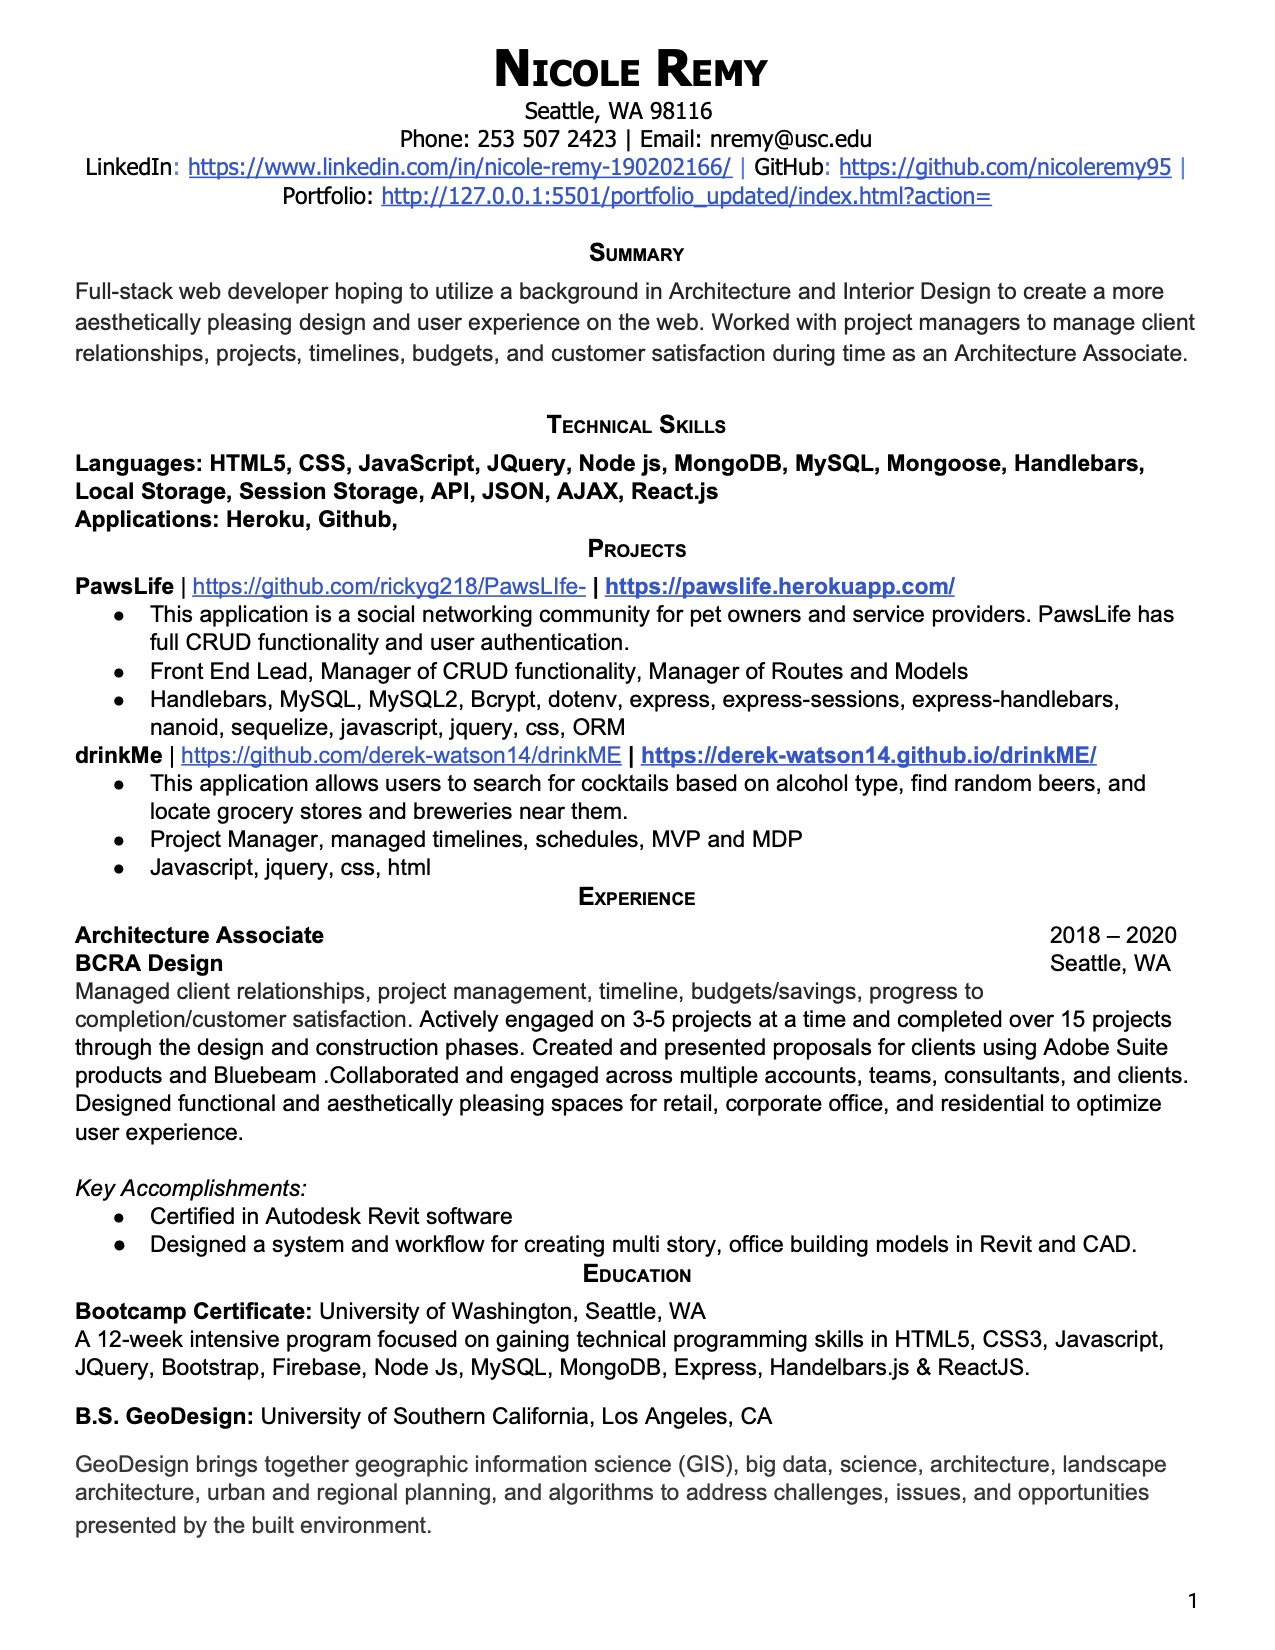
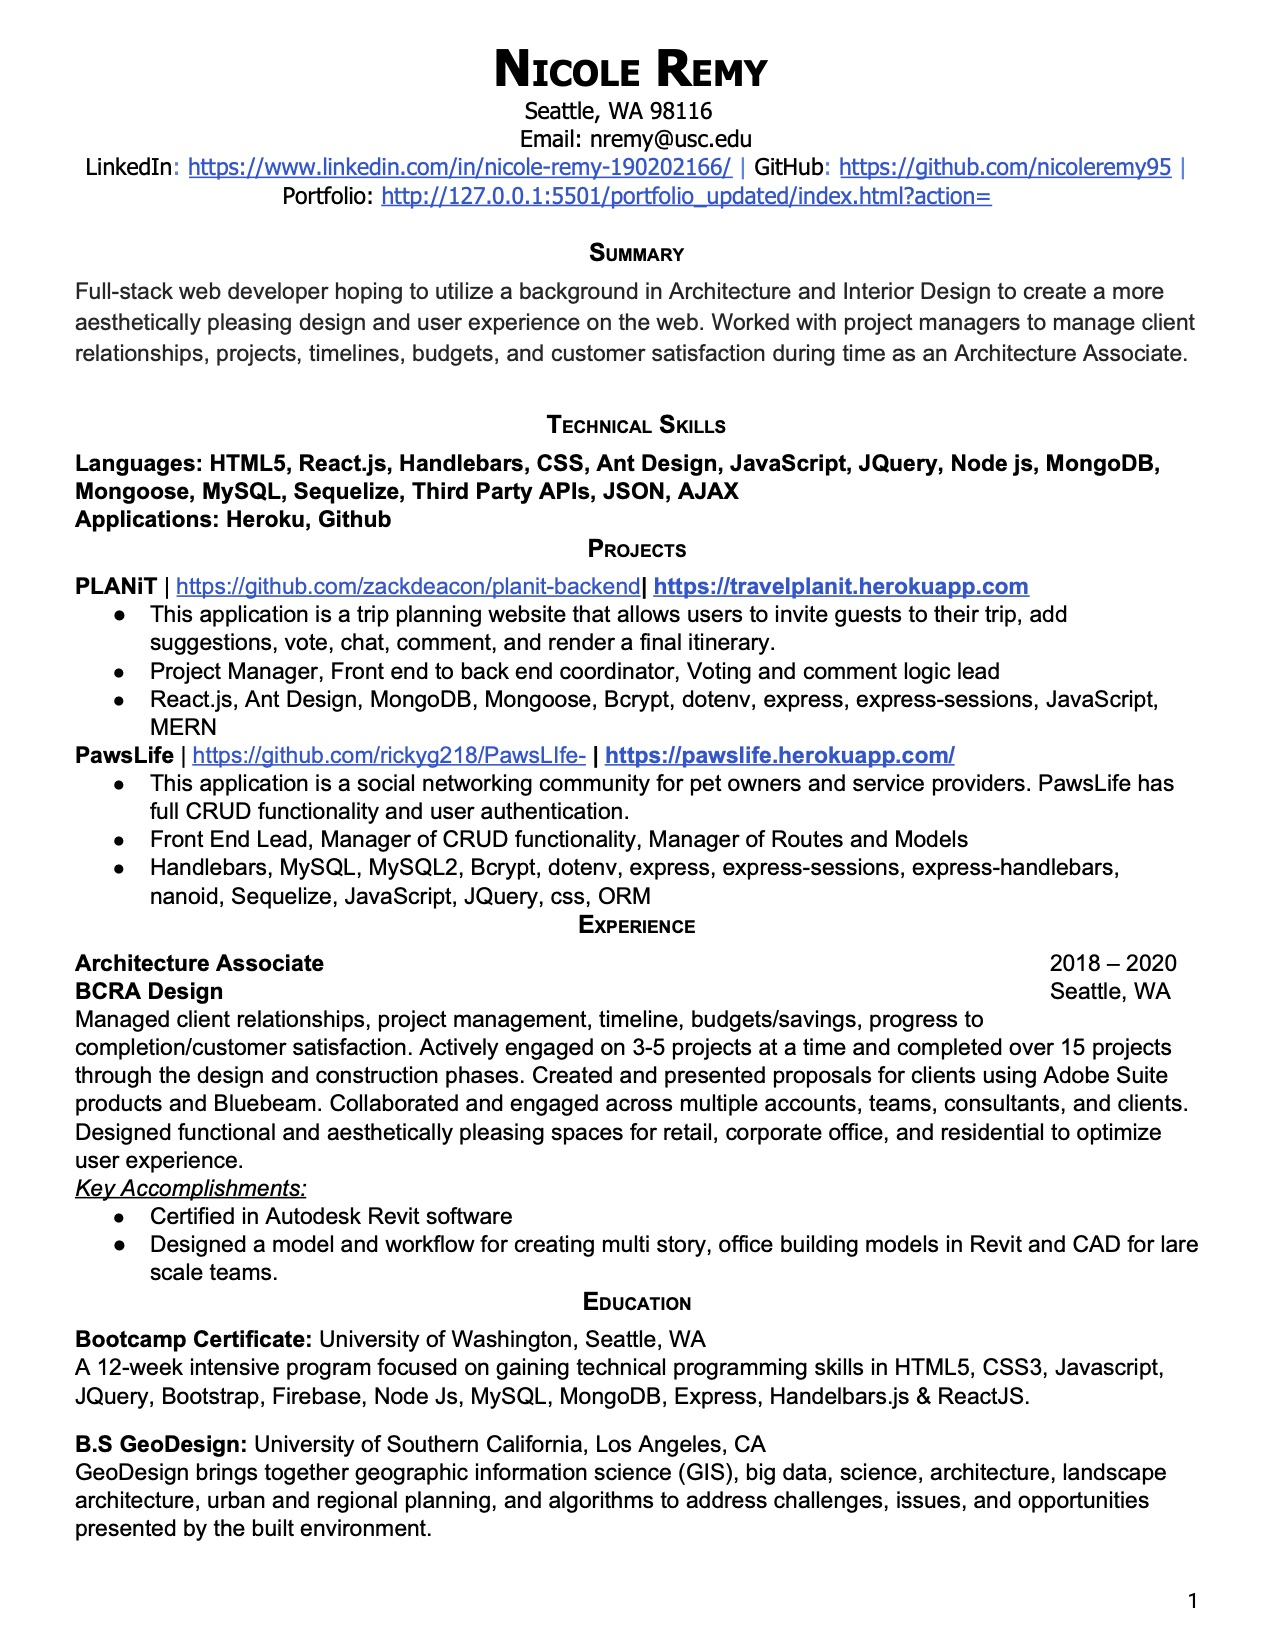
changed out resume to more current edition, added technology to portfolio, removed modal

diff --git a/src/components/portfolio/portfolio.js b/src/components/portfolio/portfolio.js
@@ -20,11 +20,10 @@ const { Meta } = Card;
 
 export default function Portfolio() {
     const portfolioArr= [
-    
-    
      {
         name: "PLANiT",
         img: planitImg,
+        tech: "React, Ant Design, MongoDB, Mongoose",
         type: "Group Project",
         role: "Project Manager",
         description: "PLANiT is a collaborative travel planning app for groups looking to make the most of their next adventure.",
@@ -36,71 +35,58 @@ export default function Portfolio() {
       {
         name: "PawsLife",
         img: pawsLifeImg,
+        tech: "HTML, Materialize, MySQL, Sequelize",
         type: "Group Project",
         role: "Routes, Front End Design, CRUD Functionality",
         description: "This application is a social community website of pet owners and pet service providers.",
         info: "This application is a social community website of pet owners and pet service providers. Pawslife gives the user the ability to create an account as a pet owner of a dog or cat, and or a pet provider for dogs or cats. As an owner, a user can keep track of all of their pets for which they can book provider services. As a provider, a user can post pet care services for other members of pawslife to book. This application has full CRUD for user accounts and CRD for pets and posts.",
         github: "https://github.com/rickyg218/PawsLIfe-",
         app: "https://pawslife.herokuapp.com/"
-    },
-    {
-      name: "drinkMe",
-      img: drinkMeImg,
-      type: "Group Project",
-      role: "Project Manager",
-      description: "Find cocktail recipes, nearby grocery stores for ingredients, and local breweries near you!",
-      info: "Don’t feel like going out to a bar or restaurant with your friends to grab a drink? Go ahead and invite them over! No stress if you don’t know what drink to make or how to make it, drinkME allows you to find the drink that fits the mood by giving you the ability to generate recipes on the fly. If you're not in the mood for cocktails, we can also help you find the perfect beer and local brewery so you can be on your way to a night full of memories! This application uses four APIs; Google , Punk, Open Brewery, and CocktailDB. For style, we used Materialize.",
-      github: "https://github.com/derek-watson14/drinkME",
-      app: "https://derek-watson14.github.io/drinkME/"
-    },
-    {
-      name: "Budget Tracker",
-      img: budgetTrackerImg,
-      type: "homework",
-      description: "This application is a budget application that allows the user to update their budget offline and online",
-      info: "This application is a budget application that allows the user to update their budget offline and online. The user has the ability to add deposits and add expenses both online and offline. This ability is from the manifest.webmanifest.json and the service worker file. This application is deployed to Heroku. If you go to the deployed site, you can click the app install to install the application to your computer.",
-      github: "https://github.com/nicoleremy95/budget-tracker",
-      app: "https://ner-budget-tracker.herokuapp.com/"
-    },
-    {
-      name: "Employee Directory",
-      img: employeeDirectoryImg,
-      type: "homework",
-      description: "This application is an employee directory made with React accessing a public random user directory api",
-      info: "This application is an employee directory made with React accessing a public random user directory api.The user can sort and filter through the employees. This application is deployed to Heroku. If you go to the deployed site, you can click the app install to install the application to your computer.",
-      github: "https://github.com/nicoleremy95/employeedirectory",
-      app: "https://serene-shelf-43817.herokuapp.com/"
-    },
-
-     {
-        name: "Eat Da Burger ",
-        img: burgerImg,
+      },
+      {
+        name: "drinkMe",
+        img: drinkMeImg,
+        tech: "HTML, Materialize, Third Party APIs",
+        type: "Group Project",
+        role: "Project Manager",
+        description: "Find cocktail recipes, nearby grocery stores for ingredients, and local breweries near you!",
+        info: "Don’t feel like going out to a bar or restaurant with your friends to grab a drink? Go ahead and invite them over! No stress if you don’t know what drink to make or how to make it, drinkME allows you to find the drink that fits the mood by giving you the ability to generate recipes on the fly. If you're not in the mood for cocktails, we can also help you find the perfect beer and local brewery so you can be on your way to a night full of memories! This application uses four APIs; Google , Punk, Open Brewery, and CocktailDB. For style, we used Materialize.",
+        github: "https://github.com/derek-watson14/drinkME",
+        app: "https://derek-watson14.github.io/drinkME/"
+      },
+      {
+        name: "Budget Tracker",
+        img: budgetTrackerImg,
+        tech: "HTML, jQuery, Mongoose, Express",
         type: "homework",
-        description: "This application creates a burger logger using MySQL, Node, Express, Express Handlebars, ORM, and an MVC design pattern. You can create a burger, decided if you want to eat it right away or wait, and then once it is logged you can choose to eat it, recreate it, or delete it. This application has full CRUD functionality. This application is deployed to Heroku.",
-        info: "This application creates a burger logger using MySQL, Node, Express, Express Handlebars, ORM, and an MVC design pattern. You can create a burger, decided if you want to eat it right away or wait, and then once it is logged you can choose to eat it, recreate it, or delete it. This application has full CRUD functionality. This application is deployed to Heroku.",
-        github: "https://github.com/nicoleremy95/burger_restaurant",
-        app: "https://ner-burger.herokuapp.com"
+        description: "This application is a budget application that allows the user to update their budget offline and online",
+        info: "This application is a budget application that allows the user to update their budget offline and online. The user has the ability to add deposits and add expenses both online and offline. This ability is from the manifest.webmanifest.json and the service worker file. This application is deployed to Heroku. If you go to the deployed site, you can click the app install to install the application to your computer.",
+        github: "https://github.com/nicoleremy95/budget-tracker",
+        app: "https://ner-budget-tracker.herokuapp.com/"
+      },
+      {
+        name: "Employee Directory",
+        img: employeeDirectoryImg,
+        tech: "React, Third Party API",
+        type: "homework",
+        description: "This application is an employee directory made with React accessing a public random user directory api",
+        info: "This application is an employee directory made with React accessing a public random user directory api.The user can sort and filter through the employees. This application is deployed to Heroku. If you go to the deployed site, you can click the app install to install the application to your computer.",
+        github: "https://github.com/nicoleremy95/employeedirectory",
+        app: "https://serene-shelf-43817.herokuapp.com/"
       },
       {
         name: "Employee Profiles CL",
         img: employeeProfilesImg,
+        tech: "Node.js, CLI, Inquirer npm",
         type: "homework",
         description: "This CLI creates a website with employee information. Run the program in terminal with node app.js and make sure to install inquirer",
         info: "This application manages a company's employees using node and MySQL through a command-line application using the Inquirer package. The user only has to type node index.js in the terminal to begin the application. After this, the user is prompted to choose from a list of options to either view, add, or update either an employee, role, or department. The application already has a built-in data table and table data for reference found in the schema.sql and seeds.sql file respectively; this should be input into MySQL.To handle edge cases, I added a validate property on each inqurier prompt object validating either a number, string, or empty input. There is also a recursive function that continues to ask the user questions until they choose EXIT. Please note, to run on your computer, please update the 'password' on line 27 of the index.js file to your MySQL password.",
         github: "https://github.com/nicoleremy95/template_engine_employee_summary",
       },
-       {
-        name: "Weather Dashboard",
-        img: weatherDashboardImg,
-        type: "homework",
-        description: "Look up current weather for a city using this app",
-        info: "Server side APIs weather application. In this project, I have created a weather dashboard for cities across the world. Using third-party Open Weather Map API, users can enter a city and retreive current and future weather information on that particular city. Then, if the user clicks the newly created button of the city, the information is then displayed again.The current weather information includes the date, an icon representing the current weather, the temperature, the humidity, the wind speed, and the UV index. When the user views the UV Index, the color of the index indicates whether teh conditions are favorable, moderate, or severe. The user can also view the forecast for the next 5 days. This displays the icon representing the weather conditions, the temperature, and the humidity. When a user refreshes the page, the city buttons stay on the page.I used html, css, javascript, jquery, moment.js, and bootstrap to make this website.",
-        github: "https://github.com/nicoleremy95/hw6_server_side_apis_weather",
-        app: "https://nicoleremy95.github.io/hw6_server_side_apis_weather/5"
-      },
       {
         name: "Coding Assesment",
         img: codingAssesmentImg,
+        tech: "HTML, Bootstrap, Javascript",
         type: "homework",
         description: "60 second coding assesment using Javascript.",
         info: "You have 60 seconds to complete the quiz. When you answer a question right, you will gain a point, if you answer the question incorrectly, you lose 5 seconds from your time. The quiz also shows your quiz progress and the time left; both of these elements clear out and go back to their starting values when the record score button is clicked.I have made this quiz dynamic through JavaScript. It features only one HTML and elements that appear and disappear with the help of CSS display, and appending new elements to the page with Javascript. The quiz is also mobile responsive and adapts to the users screen size.This quiz also uses local storage to keep track of the user's score. The quiz then appends the user's score to the top of the page.",
@@ -110,32 +96,14 @@ export default function Portfolio() {
       {
         name: "Password Generator",
         img: passwordGeneratorImg,
+        tech: "HTML, Boostrap, Javascript",
         type: "homework",
         description: "Random password generator that generates a password between 8-128 characters",
         info: "In this project, I have created a password generator that will randomly choose a password given set criteria from the user. This will allow the user to use the resulting password to protect their sensitive data.When you click the generate password button, it will prompt you to specify the length between 8-128 characters. If you do not enter a value in this range, I have an alert that will tell the user it is not a valid answer, and while loop that will repeat the question.After this, it will ask you to confirm yes or cancel to the following questions; do you want to use upper case characters?, do you want to use lowercase characters?, do you want to use numbers?, do you want to use symbols? Each of these questions results in an array of values that will ultimately be put into the function to create the password. If the user answers 'cancel' to all of these questions, an alert will tell the user to select at least one of characters, and a while loop will bring them to the beginning of the confirm section again.The resulting array will then by mixed, trimmed to the length specified by the user, and then the resulting array should be transferred into a string for the generate password function.",
         github: "https://github.com/nicoleremy95/hw3_passwordgenerator",
         app: "https://nicoleremy95.github.io/hw4_coding_assesment/"
       },
-       {
-        name: "Workday Scheduler",
-        img: calendarImg,
-        type: "homework",
-        description: "Schedule important events in your day to day.",
-        info: "In this project, I have created a calendar using moment.js, HTML, jQuery, and CSS. This calendar saves the users input into the local storage and shows the input even after the page refreshes.The rows corresponding to each hour also update color based upon the current time. If it is the present hour, the row input turns pink. If the hour is in the past, the color is white. If the hour is in the future, the row turns green.",
-        github: "https://github.com/nicoleremy95/hw5_workday_scheduler/blob/master/index.html",
-        app: "https://nicoleremy95.github.io/hw5_workday_scheduler/"
-      },
-      
-        
-      {
-        name: "Note Taker",
-        img: noteTakerImg,
-        type: "homework",
-        description: "This application dynamically can be used to write, save, delete, and review saved notes",
-        info: "This application dynamically can be used to write, save, delete, and review saved notes. This application will use an express backend and save and retrieve note data from a JSON file.There are two html routes set up in the htmlroutes.js file; the home page and the notes page. There are three requests set up in the api.js file including get api notes, post api notes, and delete api notes. Together, these routes allow for the user to write, save and delete notes from the backend which is then displayed on the front end using the index.js logic. All notes are written to a backend file called db.json. The public folder and its contents handle the front end of the application. This app is also deployed on Heroku.",
-        github: "https://github.com/nicoleremy95/note_taker",
-        app: "https://nernottakerapi.herokuapp.com/"
-      }
+     
     ]
     const [modal, setModal] = useState({
       visible: false
@@ -173,11 +141,12 @@ export default function Portfolio() {
                 title={item.name} 
                 description={item.description} 
                 />
-                <a href={item.app}>{item.name} app</a>
+                <p>{item.tech}</p>
+                <a href={item.app}><img src="https://img.icons8.com/carbon-copy/100/000000/domain.png"/></a>
                 <br></br>
-                <a href={item.github}>{item.name} github</a>
+                <a href={item.github}><img src="https://img.icons8.com/fluent/48/000000/github.png"/></a>
                 <br></br>
-                <Button onClick={showModal}>Read More</Button>
+                {/* <Button onClick={showModal}>Read More</Button>
                  
                   <Modal
                     title={item.name}
@@ -194,7 +163,7 @@ export default function Portfolio() {
                     <a>{item.github}</a>
                     <br></br>
                     <a>{item.app}</a>
-                </Modal>
+                </Modal> */}
             </Card> 
         )
       })
@@ -206,6 +175,8 @@ export default function Portfolio() {
             <Col xxl={{span: 8}} xl={{span: 11}} lg={{ span: 13 }}>
               {array.map(item=>{return item})}
             </Col>
+            <a href="https://icons8.com/icon/AZOZNnY73haj/github">GitHub icon by Icons8</a>
+            <a href="https://icons8.com/icon/AZOZNnY73haj/github">GitHub icon by Icons8</a>
          
         </div>
     )

diff --git a/src/components/portfolio/portfolio.css b/src/components/portfolio/portfolio.css
@@ -1,6 +1,11 @@
 body{
     background-color: #eee;
 }
+
+p{
+    font-size: 15px;
+}
+
 .card{
 height: 400px;
 width: 500px;
